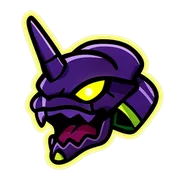
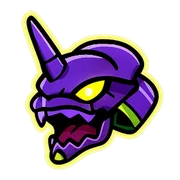
Tilted lug wheel, brighter Eva, sound prompt on start/return, humanoid name fits
Claude-Session: https://claude.ai/code/session_019QwctBLnb4UTXMJBnbargq

Changed region(s): [[0.1667, 0.1111, 0.8611, 0.6944], [0.2778, 0.6389, 0.6111, 0.8889], [0.4444, 0.25, 0.4722, 0.2778]]

diff --git a/index.html b/index.html
@@ -181,7 +181,8 @@ body.rush .board { box-shadow: 0 0 0 6px var(--gold), 0 0 0 7px #fff3, 0 0 28px 
 .ocard.hum { padding: 4px 1px 4px; background: linear-gradient(180deg, #FFF8E1, var(--surface) 45%); border-color: var(--gold-deep); }
 .ocard.hum .ind { font-size: 24px; }
 .ocard.hum .rb { margin-top: auto; }
-.ocard.hum .rname { font-size: 15px; text-align: center; }
+.ocard.hum { container-type: inline-size; }
+.ocard.hum .rname { font-size: clamp(12px, 27cqw, 18px); line-height: 1; text-align: center; word-break: keep-all; }
 .ocard.hum .needs { flex-wrap: wrap; gap: 2px; }
 .ocard .needs { max-width: 100%; }
 /* 부품 칸이 많으면(미국 주문 5칸) 칸을 줄여서 주문서 안에 맞춤 */
@@ -331,6 +332,15 @@ body.rush .board { box-shadow: 0 0 0 6px var(--gold), 0 0 0 7px #fff3, 0 0 28px 
 .order-card.wiggle { animation: cardWiggle .7s ease-in-out 2; }
 @keyframes cardWiggle { 0%, 100% { rotate: 0deg; } 25% { rotate: -3deg; } 75% { rotate: 3deg; } }
 /* 처음 그림 불러오는 동안 */
+/* 소리 켤지 묻는 창 */
+.sound-ask { position: fixed; inset: 0; z-index: 70; display: flex; align-items: center; justify-content: center; padding: 16px; background: rgba(10, 12, 26, .72); backdrop-filter: blur(3px); -webkit-backdrop-filter: blur(3px); }
+.sound-ask .box { width: 100%; max-width: 300px; padding: 22px 18px 16px; border: 2px solid var(--gold); border-radius: 18px; background: linear-gradient(180deg, #3a4656, #232b36); box-shadow: 0 10px 40px rgba(0, 0, 0, .6); text-align: center; color: #fff; }
+.sound-ask .icon { font-size: 40px; line-height: 1; }
+.sound-ask p { margin: 10px 0 16px; font-family: var(--font-display); font-size: 22px; }
+.sound-ask .btns { display: flex; gap: 10px; }
+.sound-ask button { flex: 1; padding: 13px 0; border: 0; border-radius: 12px; font: inherit; font-family: var(--font-display); font-size: 18px; color: #fff; background: rgba(255, 255, 255, .14); cursor: pointer; }
+.sound-ask button[data-sound="on"] { background: var(--accent); color: #1A1400; }
+.sound-ask small { display: block; margin-top: 12px; font-size: 12px; color: rgba(255, 255, 255, .7); }
 .loading { position: fixed; inset: 0; z-index: 60; display: flex; flex-direction: column; align-items: center; justify-content: center; gap: 10px; background: var(--bg); color: var(--hud-ink); font-family: var(--font-display); font-size: 18px; }
 .ld-bar { width: 180px; height: 8px; border-radius: 4px; background: rgba(0,0,0,.3); overflow: hidden; }
 .ld-bar i { display: block; height: 100%; width: 0; background: var(--gold); transition: width .1s; }
@@ -1355,11 +1365,13 @@ async function runStage() {
 const stageIdle = () => !stage.busy && !stage.q.length;
 
 // 주문서 내용 (가운데 큰 카드와 자리의 카드가 같은 순서로 읽힘)
+// 좁은 휴머노이드 칸: 긴 이름은 두 줄로 (휴머/노이드, 트랜스/포머)
+const splitName = n => n.length < 4 ? n : n === '트랜스포머' ? '트랜스<wbr>포머' : n.slice(0, 2) + '<wbr>' + n.slice(2);
 function orderBody(c, big) {
   const o = c.order, r = ROBOTS[o.want];
   const needs = c.needs.map((nd, k) => `<span class="need${nd.got ? ' got' : ''}" data-need="${k}">${TILES[nd.p].icon}</span>`).join('');
   if (isHumSlot(S.slots.indexOf(c)) && !big) {
-    return `<div class="ind">${o.icon}</div><div class="rb"><span class="ric">${r.icon}</span></div><div class="rname">${r.name}</div><div class="needs">${needs}</div><div class="hint">${o.ind}</div>`;
+    return `<div class="ind">${o.icon}</div><div class="rb"><span class="ric">${r.icon}</span></div><div class="rname">${splitName(r.name)}</div><div class="needs">${needs}</div><div class="hint">${o.ind}</div>`;
   }
   // 머리(업종·회사·할 일)는 높이를 고정해서, 그 아래 손님 얼굴이 모든 주문서에서 같은 높이에 옴
   return `<div class="hd"><div class="ind">${o.icon} ${o.ind}</div>${o.who ? `<div class="co">${o.who}</div>` : ''}<div class="task">${o.task}</div></div>
@@ -1805,7 +1817,7 @@ const faceHTML = (e, who = 'suit') => FACE_ART[who][e] || FACE_ART.suit[e] || e;
 // 같은 그림이 여러 개 있어도 박자가 겹치지 않게 시작점을 흩뜨림
 // 그림을 다시 그려도 폰에 남은 옛 그림이 보이지 않게 주소에 버전을 붙임
 // 파일마다 내용이 바뀔 때만 새로 받도록 파일 해시를 붙임 (빌드할 때 채움)
-const ART_HASH = {"tile-gundam-a.png": "41a00219", "ind-school-a.png": "1b0fc977", "robot-cobot-cook-b.png": "3f739fa6", "tile-tool-a.png": "48c7dc89", "tile-made-a.png": "43e550a9", "ind-training-b.png": "0efc1d0b", "robot-qarm-a.png": "901f7afc", "tile-legs-b.png": "c0299b41", "tile-union-b.png": "b3a03a42", "face-cook-frown.png": "e01a4907", "face-cook-neutral.png": "71441525", "ind-battery-b.png": "6e2bd18d", "ind-fire-a.png": "a71484d3", "face-trump-neutral.png": "5aecac90", "tile-legs-a.png": "2faadad6", "face-worker-angry.png": "eb6b88ed", "ind-steel-a.png": "0f070238", "face-suitf-delight.png": "d729900f", "ind-steel-b.png": "e122612f", "ind-defense-b.png": "5aa959f1", "face-cook-angry.png": "50c65318", "ind-port-b.png": "6f5dc395", "tile-tf-a.png": "d2bc0939", "ind-factory-a.png": "909659fd", "tile-term-b.png": "fa8e5b3f", "face-neutral.png": "a9a959b5", "tile-wheel-a.png": "583f5ad2", "face-cook-smile.png": "be9219e0", "tile-korea-b.png": "1fcc2bd8", "face-trump-tear.png": "21d22245", "tile-auto-b.png": "bb58686e", "ind-material-b.png": "a8f27197", "tile-korea-a.png": "f7ec52b4", "tile-union-a.png": "d48507d4", "ind-auto-a.png": "9a8abf4f", "face-frown.png": "26865767", "robot-centaur-a.png": "a9e1e03b", "tile-auto-a.png": "e7100d25", "robot-cobot-cook-a.png": "2acb022c", "face-worker-tear.png": "940dcfc3", "ind-autoparts-b.png": "a5dbd76a", "face-suitf-angry.png": "5b24ceb5", "face-suitf-tear.png": "d0923069", "robot-centaur-b.png": "848f1932", "robot-mm-a.png": "e5da97cf", "ind-defense-a.png": "23a0651c", "robot-quad-a.png": "1e1384cf", "ind-autoparts-a.png": "26dcf7ce", "tile-eva-b.png": "a0ce3ca3", "face-cook-tear.png": "d529800c", "tile-gundam-b.png": "69722c17", "face-trump-delight.png": "e41c1f7d", "face-angry.png": "8542c3c5", "tile-floor-b.png": "7bfb4d09", "face-suitf-smile.png": "2bfa949d", "ind-material-a.png": "2c67685e", "tile-term-a.png": "f86a988f", "tile-eva-a.png": "8c753c91", "tile-hum-a.png": "cdc85433", "ind-port-a.png": "0e5340b9", "ind-police-a.png": "717025fa", "robot-cobot-a.png": "bb066d5e", "face-trump-angry.png": "6fc0cf6d", "tile-wheel-b.png": "e7e699b5", "face-worker-neutral.png": "f4f1ff96", "robot-amr-a.png": "21455470", "face-delight.png": "4b63238d", "face-trump-frown.png": "4102f723", "robot-mm-b.png": "41cc89c7", "ind-fire-b.png": "c530534e", "ind-police-b.png": "750b1169", "ind-ess-b.png": "c7fac005", "ind-training-a.png": "a9fe00e5", "tile-tf-b.png": "23f3efda", "ind-aircraft-a.png": "53a6b218", "ind-school-b.png": "a14af652", "tile-arm-b.png": "6cb9dab3", "face-worker-delight.png": "56fdb189", "face-worker-smile.png": "7eaefd7c", "robot-quad-b.png": "9b27fe7b", "ind-chicken-a.png": "bd4bc4e3", "face-cook-delight.png": "5ceb20b0", "ind-battery-a.png": "2ead7359", "robot-agv-b.png": "397f8942", "face-tear.png": "7cacead6", "face-suitf-neutral.png": "b29259fe", "ind-auto-b.png": "f90715bb", "ind-shipyard-a.png": "7c43481e", "tile-tool-b.png": "c90763b3", "ind-factory-b.png": "b9dfaab4", "ind-chicken-b.png": "b4930a6b", "ind-shipyard-b.png": "098fdbae", "robot-qarm-b.png": "abd9a737", "tile-arm-a.png": "cd420a51", "tile-made-b.png": "5c6a705c", "tile-floor-a.png": "14074a30", "robot-cobot-weld-a.png": "da53987b", "robot-agv-a.png": "ee67b65c", "ind-logistics-b.png": "9c5aeeca", "face-smile.png": "786eeb95", "face-worker-frown.png": "0f8d8086", "robot-cobot-weld-b.png": "a9e69108", "robot-amr-b.png": "e23a5198", "tile-hum-b.png": "01ca7c8b", "ind-ess-a.png": "83fff111", "face-suitf-frown.png": "1236f440", "ind-aircraft-b.png": "6afa5f2a", "face-trump-smile.png": "03674df8", "robot-cobot-b.png": "7ea58bc1", "ind-logistics-a.png": "b1b04f38"};
+const ART_HASH = {"tile-gundam-a.png": "41a00219", "ind-school-a.png": "1b0fc977", "robot-cobot-cook-b.png": "3f739fa6", "tile-tool-a.png": "48c7dc89", "tile-made-a.png": "43e550a9", "ind-training-b.png": "0efc1d0b", "robot-qarm-a.png": "901f7afc", "tile-legs-b.png": "c0299b41", "tile-union-b.png": "b3a03a42", "face-cook-frown.png": "e01a4907", "face-cook-neutral.png": "71441525", "ind-battery-b.png": "6e2bd18d", "ind-fire-a.png": "a71484d3", "face-trump-neutral.png": "5aecac90", "tile-legs-a.png": "2faadad6", "face-worker-angry.png": "eb6b88ed", "ind-steel-a.png": "0f070238", "face-suitf-delight.png": "d729900f", "ind-steel-b.png": "e122612f", "ind-defense-b.png": "5aa959f1", "face-cook-angry.png": "50c65318", "ind-port-b.png": "6f5dc395", "tile-tf-a.png": "d2bc0939", "ind-factory-a.png": "909659fd", "tile-term-b.png": "fa8e5b3f", "face-neutral.png": "a9a959b5", "tile-wheel-a.png": "9e98ebac", "face-cook-smile.png": "be9219e0", "tile-korea-b.png": "1fcc2bd8", "face-trump-tear.png": "21d22245", "tile-auto-b.png": "bb58686e", "ind-material-b.png": "a8f27197", "tile-korea-a.png": "f7ec52b4", "tile-union-a.png": "d48507d4", "ind-auto-a.png": "9a8abf4f", "face-frown.png": "26865767", "robot-centaur-a.png": "a9e1e03b", "tile-auto-a.png": "e7100d25", "robot-cobot-cook-a.png": "2acb022c", "face-worker-tear.png": "940dcfc3", "ind-autoparts-b.png": "a5dbd76a", "face-suitf-angry.png": "5b24ceb5", "face-suitf-tear.png": "d0923069", "robot-centaur-b.png": "848f1932", "robot-mm-a.png": "e5da97cf", "ind-defense-a.png": "23a0651c", "robot-quad-a.png": "1e1384cf", "ind-autoparts-a.png": "26dcf7ce", "tile-eva-b.png": "a492939f", "face-cook-tear.png": "d529800c", "tile-gundam-b.png": "69722c17", "face-trump-delight.png": "e41c1f7d", "face-angry.png": "8542c3c5", "tile-floor-b.png": "7bfb4d09", "face-suitf-smile.png": "2bfa949d", "ind-material-a.png": "2c67685e", "tile-term-a.png": "f86a988f", "tile-eva-a.png": "4fc57067", "tile-hum-a.png": "cdc85433", "ind-port-a.png": "0e5340b9", "ind-police-a.png": "717025fa", "wheel-tilt-ref.png": "4a1e31a2", "robot-cobot-a.png": "bb066d5e", "face-trump-angry.png": "6fc0cf6d", "tile-wheel-b.png": "df5d2104", "face-worker-neutral.png": "f4f1ff96", "robot-amr-a.png": "21455470", "face-delight.png": "4b63238d", "face-trump-frown.png": "4102f723", "robot-mm-b.png": "41cc89c7", "ind-fire-b.png": "c530534e", "ind-police-b.png": "750b1169", "ind-ess-b.png": "c7fac005", "ind-training-a.png": "a9fe00e5", "tile-tf-b.png": "23f3efda", "ind-aircraft-a.png": "53a6b218", "ind-school-b.png": "a14af652", "tile-arm-b.png": "6cb9dab3", "face-worker-delight.png": "56fdb189", "face-worker-smile.png": "7eaefd7c", "robot-quad-b.png": "9b27fe7b", "ind-chicken-a.png": "bd4bc4e3", "face-cook-delight.png": "5ceb20b0", "ind-battery-a.png": "2ead7359", "robot-agv-b.png": "397f8942", "face-tear.png": "7cacead6", "face-suitf-neutral.png": "b29259fe", "ind-auto-b.png": "f90715bb", "ind-shipyard-a.png": "7c43481e", "tile-tool-b.png": "c90763b3", "ind-factory-b.png": "b9dfaab4", "ind-chicken-b.png": "b4930a6b", "ind-shipyard-b.png": "098fdbae", "robot-qarm-b.png": "abd9a737", "tile-arm-a.png": "cd420a51", "tile-made-b.png": "5c6a705c", "tile-floor-a.png": "14074a30", "robot-cobot-weld-a.png": "da53987b", "robot-agv-a.png": "ee67b65c", "ind-logistics-b.png": "9c5aeeca", "face-smile.png": "786eeb95", "face-worker-frown.png": "0f8d8086", "robot-cobot-weld-b.png": "a9e69108", "robot-amr-b.png": "e23a5198", "tile-hum-b.png": "01ca7c8b", "ind-ess-a.png": "83fff111", "face-suitf-frown.png": "1236f440", "ind-aircraft-b.png": "6afa5f2a", "face-trump-smile.png": "03674df8", "robot-cobot-b.png": "7ea58bc1", "ind-logistics-a.png": "b1b04f38"};
 // 게임에서는 가벼운 webp(assets/w/)를 씀. 파일 이름은 png와 같고 확장자만 다름
 const av = f => { const n = f.replace('assets/', ''); return `assets/w/${n.replace(/\.png$/, '.webp')}?v=${ART_HASH[n] || '0'}`; };
 // 업종 아이콘(ind-)은 a프레임만, 로봇·부품은 a·b를 번갈아 (팔이 까딱, 다리가 제자리걸음 등)
@@ -2137,7 +2149,7 @@ function banner(text, delay) {
 }
 
 // ───────── 진행 ─────────
-const BUILD_V = '1003-160709';
+const BUILD_V = '1003-161141';
 function loop(t) {
   const dt = Math.min(0.1, (t - (S.last || t)) / 1000);
   S.last = t;
@@ -2269,9 +2281,32 @@ document.addEventListener('touchmove', e => { if (e.touches.length > 1) e.preven
 addEventListener('orientationchange', () => setTimeout(() => { if (S.board) { layout(); renderBoard(); } }, 300));
 if (window.visualViewport) visualViewport.addEventListener('resize', () => { if (S.board) { layout(); renderBoard(); } });
 // 다른 앱으로 나가면 창 없이 조용히 멈췄다가, 돌아오면 그대로 이어서
+// 소리 켤지 묻는 창 (Bosses of Our World와 같음): 처음 시작할 때, 다른 앱 갔다가 돌아올 때
+let soundAsk = null;
+function askSound() {
+  if (soundAsk) return soundAsk;
+  const box = document.createElement('div');
+  box.className = 'sound-ask';
+  box.innerHTML = `<div class="box"><div class="icon">🔊</div><p>게임 소리를 켤까요?</p><div class="btns"><button type="button" data-sound="on">소리 켜기</button><button type="button" data-sound="off">소리 없이</button></div><small>위쪽 sound 버튼으로 언제든 바꿀 수 있어요</small></div>`;
+  document.body.appendChild(box);
+  box.querySelector(`[data-sound="${S.sound ? 'on' : 'off'}"]`).focus({ preventScroll: true });
+  soundAsk = new Promise(res => {
+    box.addEventListener('click', e => {
+      const b = e.target.closest('button[data-sound]');
+      if (!b) return;
+      S.sound = b.dataset.sound === 'on'; syncSound();
+      try { localStorage.setItem('robotrush.sound', S.sound ? '1' : '0'); } catch (err) {}
+      unlockAudio();
+      if (S.sound) SFX.ticket();  // 켜졌다는 확인 소리
+      box.remove(); soundAsk = null; res();
+    });
+  });
+  return soundAsk;
+}
 document.addEventListener('visibilitychange', () => {
-  if (document.hidden && S.running && !S.paused) { S.paused = true; S.autoPaused = true; }
-  else if (!document.hidden && S.autoPaused) { S.autoPaused = false; if ($('overlay').hidden) S.paused = false; }
+  if (document.hidden) { if (S.running && !S.paused) { S.paused = true; S.autoPaused = true; } return; }
+  if (document.querySelector('.loading')) return;  // 로딩 중이면 로딩 끝나고 물음
+  askSound().then(() => { if (S.autoPaused) { S.autoPaused = false; if ($('overlay').hidden) S.paused = false; } });
 });
 
 syncSound(); renderHud();
@@ -2283,7 +2318,7 @@ syncSound(); renderHud();
   document.body.appendChild(ld);
   const bar = setInterval(() => { const i = ld.querySelector('.ld-bar i'); if (i && artTotal) i.style.width = (100 * artLoaded / artTotal) + '%'; }, 100);
   // 그림을 전부 받을 때까지 기다림 (아주 느린 망에서도 최대 40초)
-  Promise.race([artReady, new Promise(r => setTimeout(r, 40000))]).then(() => { clearInterval(bar); ld.remove(); if (S.lv > 1) banner(`${S.lv}단계부터 이어서`, 200); startLevel(); });
+  Promise.race([artReady, new Promise(r => setTimeout(r, 40000))]).then(() => { clearInterval(bar); ld.remove(); askSound().then(() => { if (S.lv > 1) banner(`${S.lv}단계부터 이어서`, 200); startLevel(); }); });
 }
 requestAnimationFrame(loop);
 </script>
